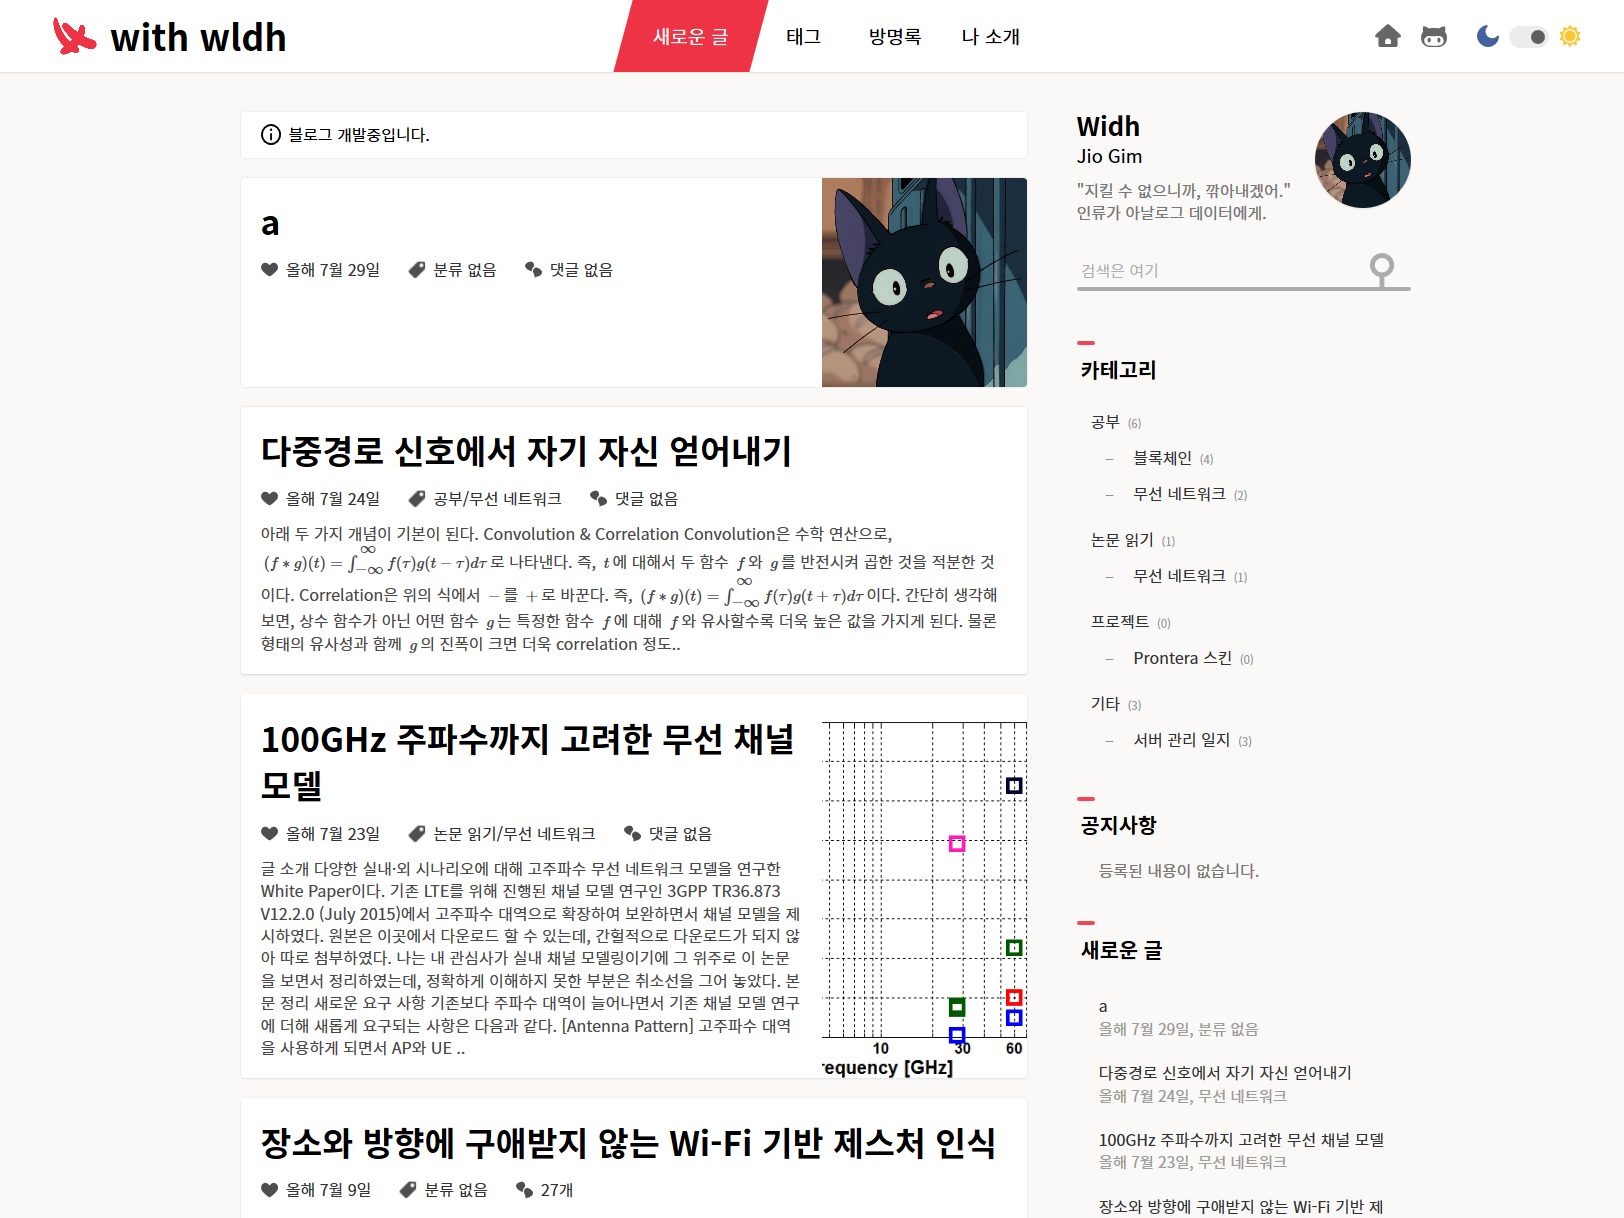
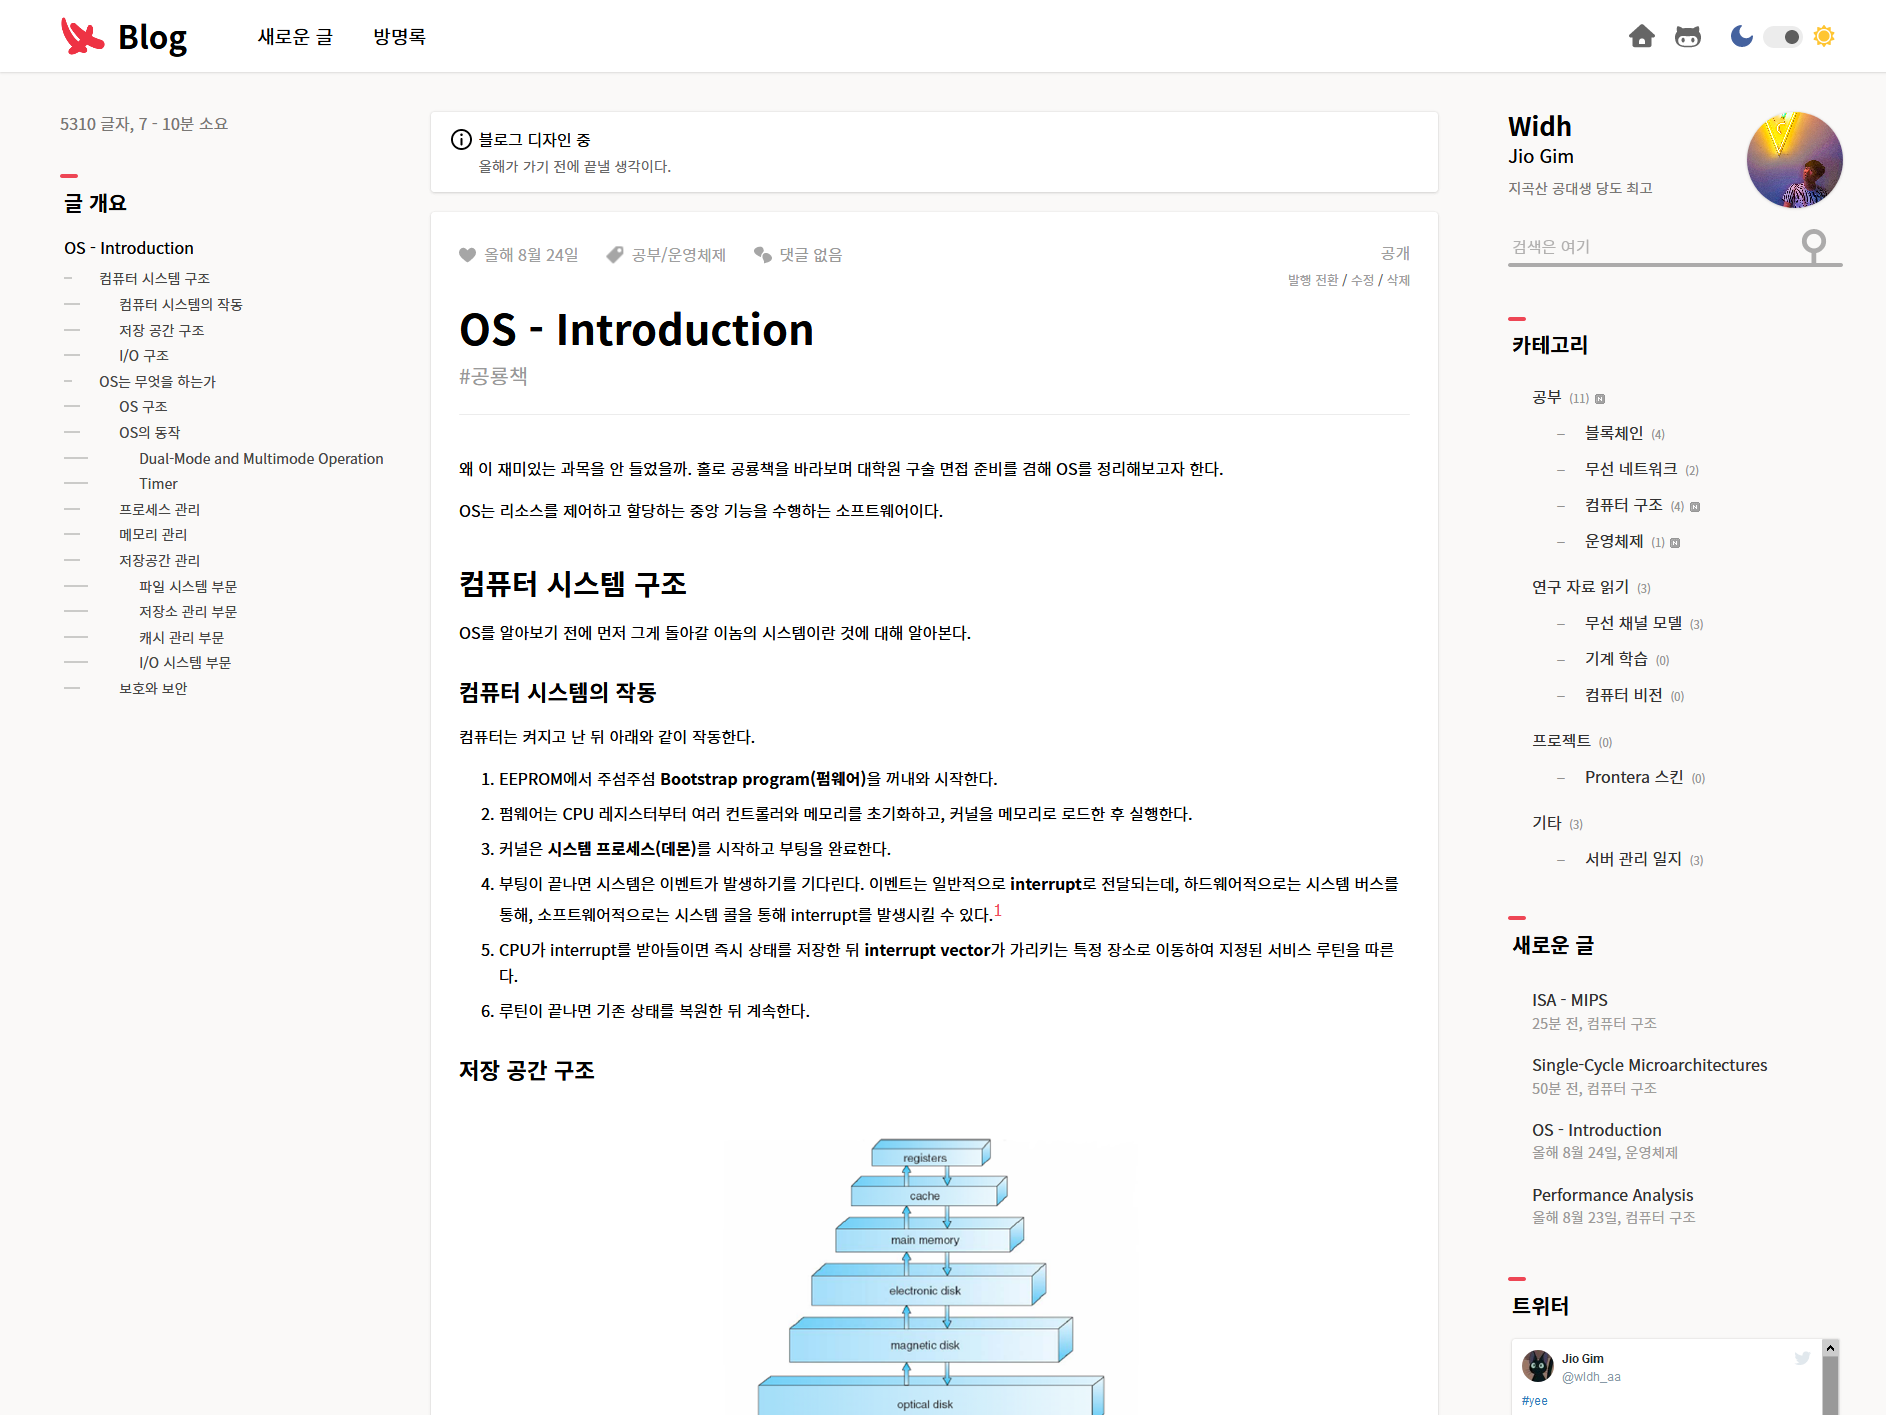
Checkpoint 30

diff --git a/src/scripts/functions/read-helper.js b/src/scripts/functions/read-helper.js
@@ -43,7 +43,7 @@ PtRegister(
       const mainTop = document.querySelector('main').getBoundingClientRect().top;
       for (let i = 0; i < headers.length; i += 1) {
         headers[i].id = `ct-hid-${i}`;
-        scrollThresholds.push(headers[i].getBoundingClientRect().top - 240 - mainTop);
+        scrollThresholds.push(headers[i].getBoundingClientRect().top - 160 - mainTop);
 
         if (i === 0) {
           const firstTagI = Number.parseInt(headers[i].tagName.substring(1));

diff --git a/src/styles/prontera.scss b/src/styles/prontera.scss
@@ -173,6 +173,8 @@ main {
     .topic {
       margin-top: 10px;
       display: block;
+      max-width: 305px;
+      word-break: keep-all;
     }
 
     #toc {

diff --git a/README.md b/README.md
@@ -37,7 +37,7 @@
 | TISTORY 신 에디터 지원       | 반응형 디자인                | 강조 색상 지정               | 밝기 모드 쿠키 도메인 공유    |
 | 사이드바 2단 메뉴 지원<sup>1</sup> | 빈틈 없는 시각 효과     | 헤더 로고 지정               | 블로그 전역 공지             |
 |                             | 밝기 모드 전환               | 아이콘만 있는 헤더 로고       | 사이드바 트위터 타임라인      |
-|                             |                             | 페이지에서 사이드바 숨기기    |                             |
+|                             |                             | 페이지에서 사이드바 숨기기    | 자동 글 목차(toc) 생성       |
 
 <sup>1</sup> 2단 = TISTORY 카테고리 최대 깊이
 <sup>2</sup> 추가 기능 설명은 [위키](https://github.com/widh/prontera/wiki) 참조

diff --git a/TODO.md b/TODO.md
@@ -7,7 +7,6 @@ Prontera To-do
 + 방명록 페이지 지원
 + 웹 접근성 개선
 + 읽기 모드에서의 맥락 안정화
-+ 목차 생성 기능
 + 웹 표준 개선
 + 브라우저 테스트
 + 디자인 통일성 개선
